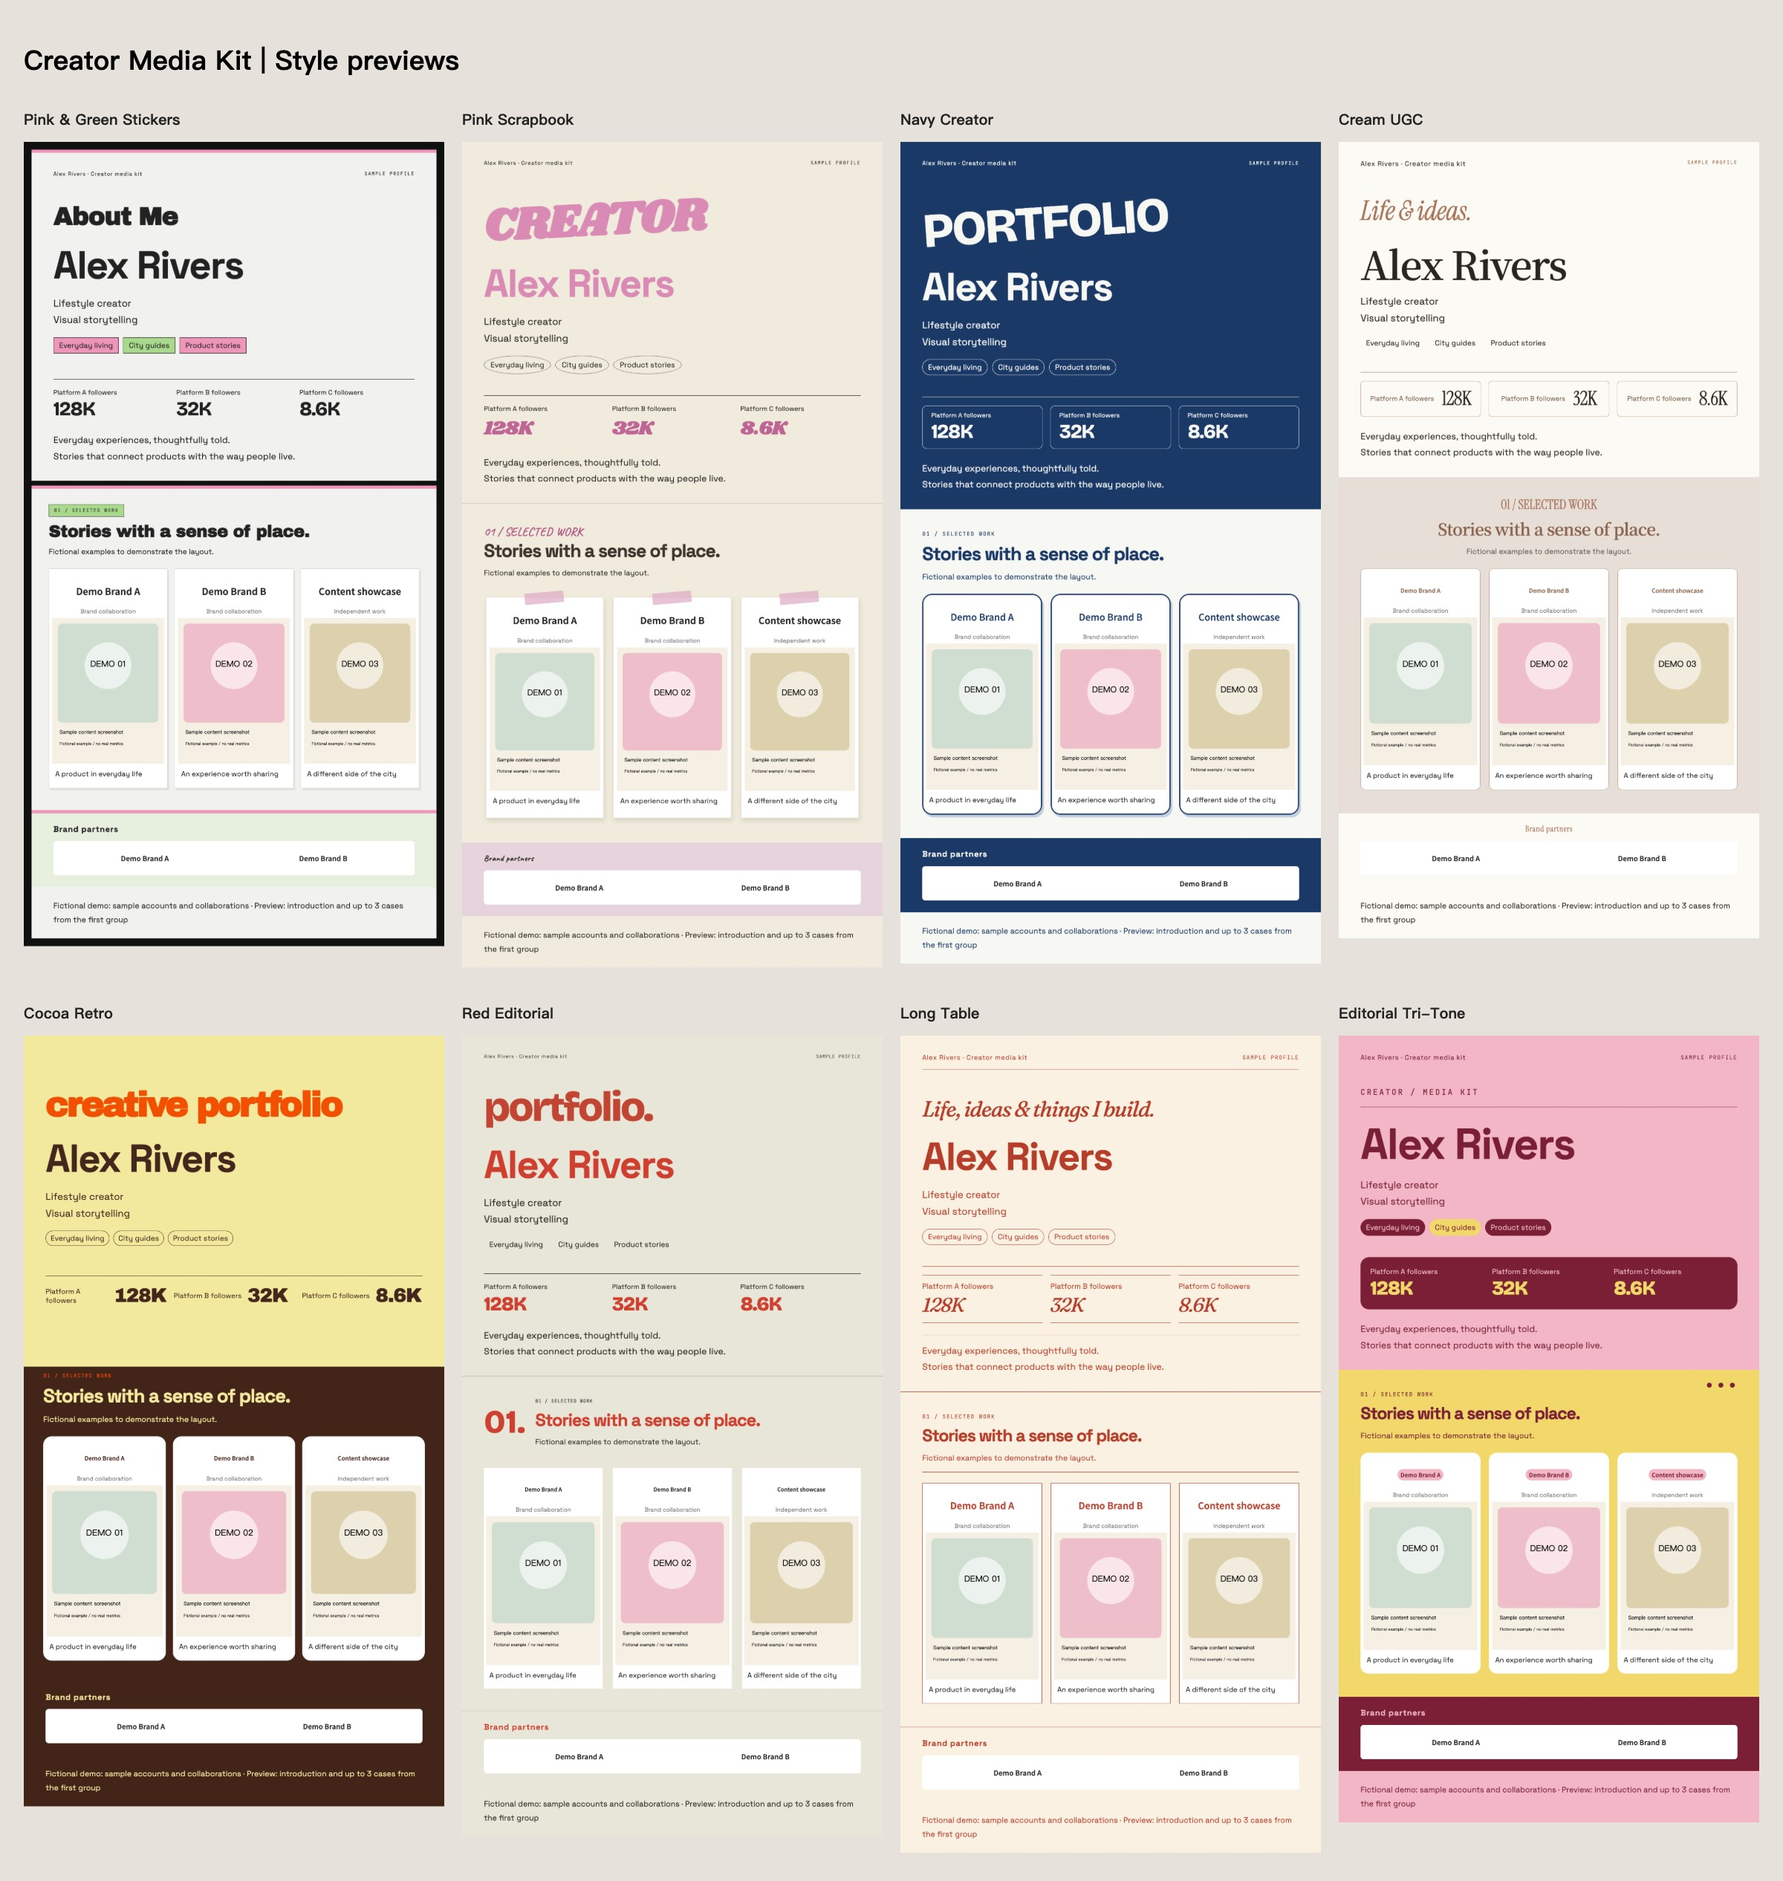
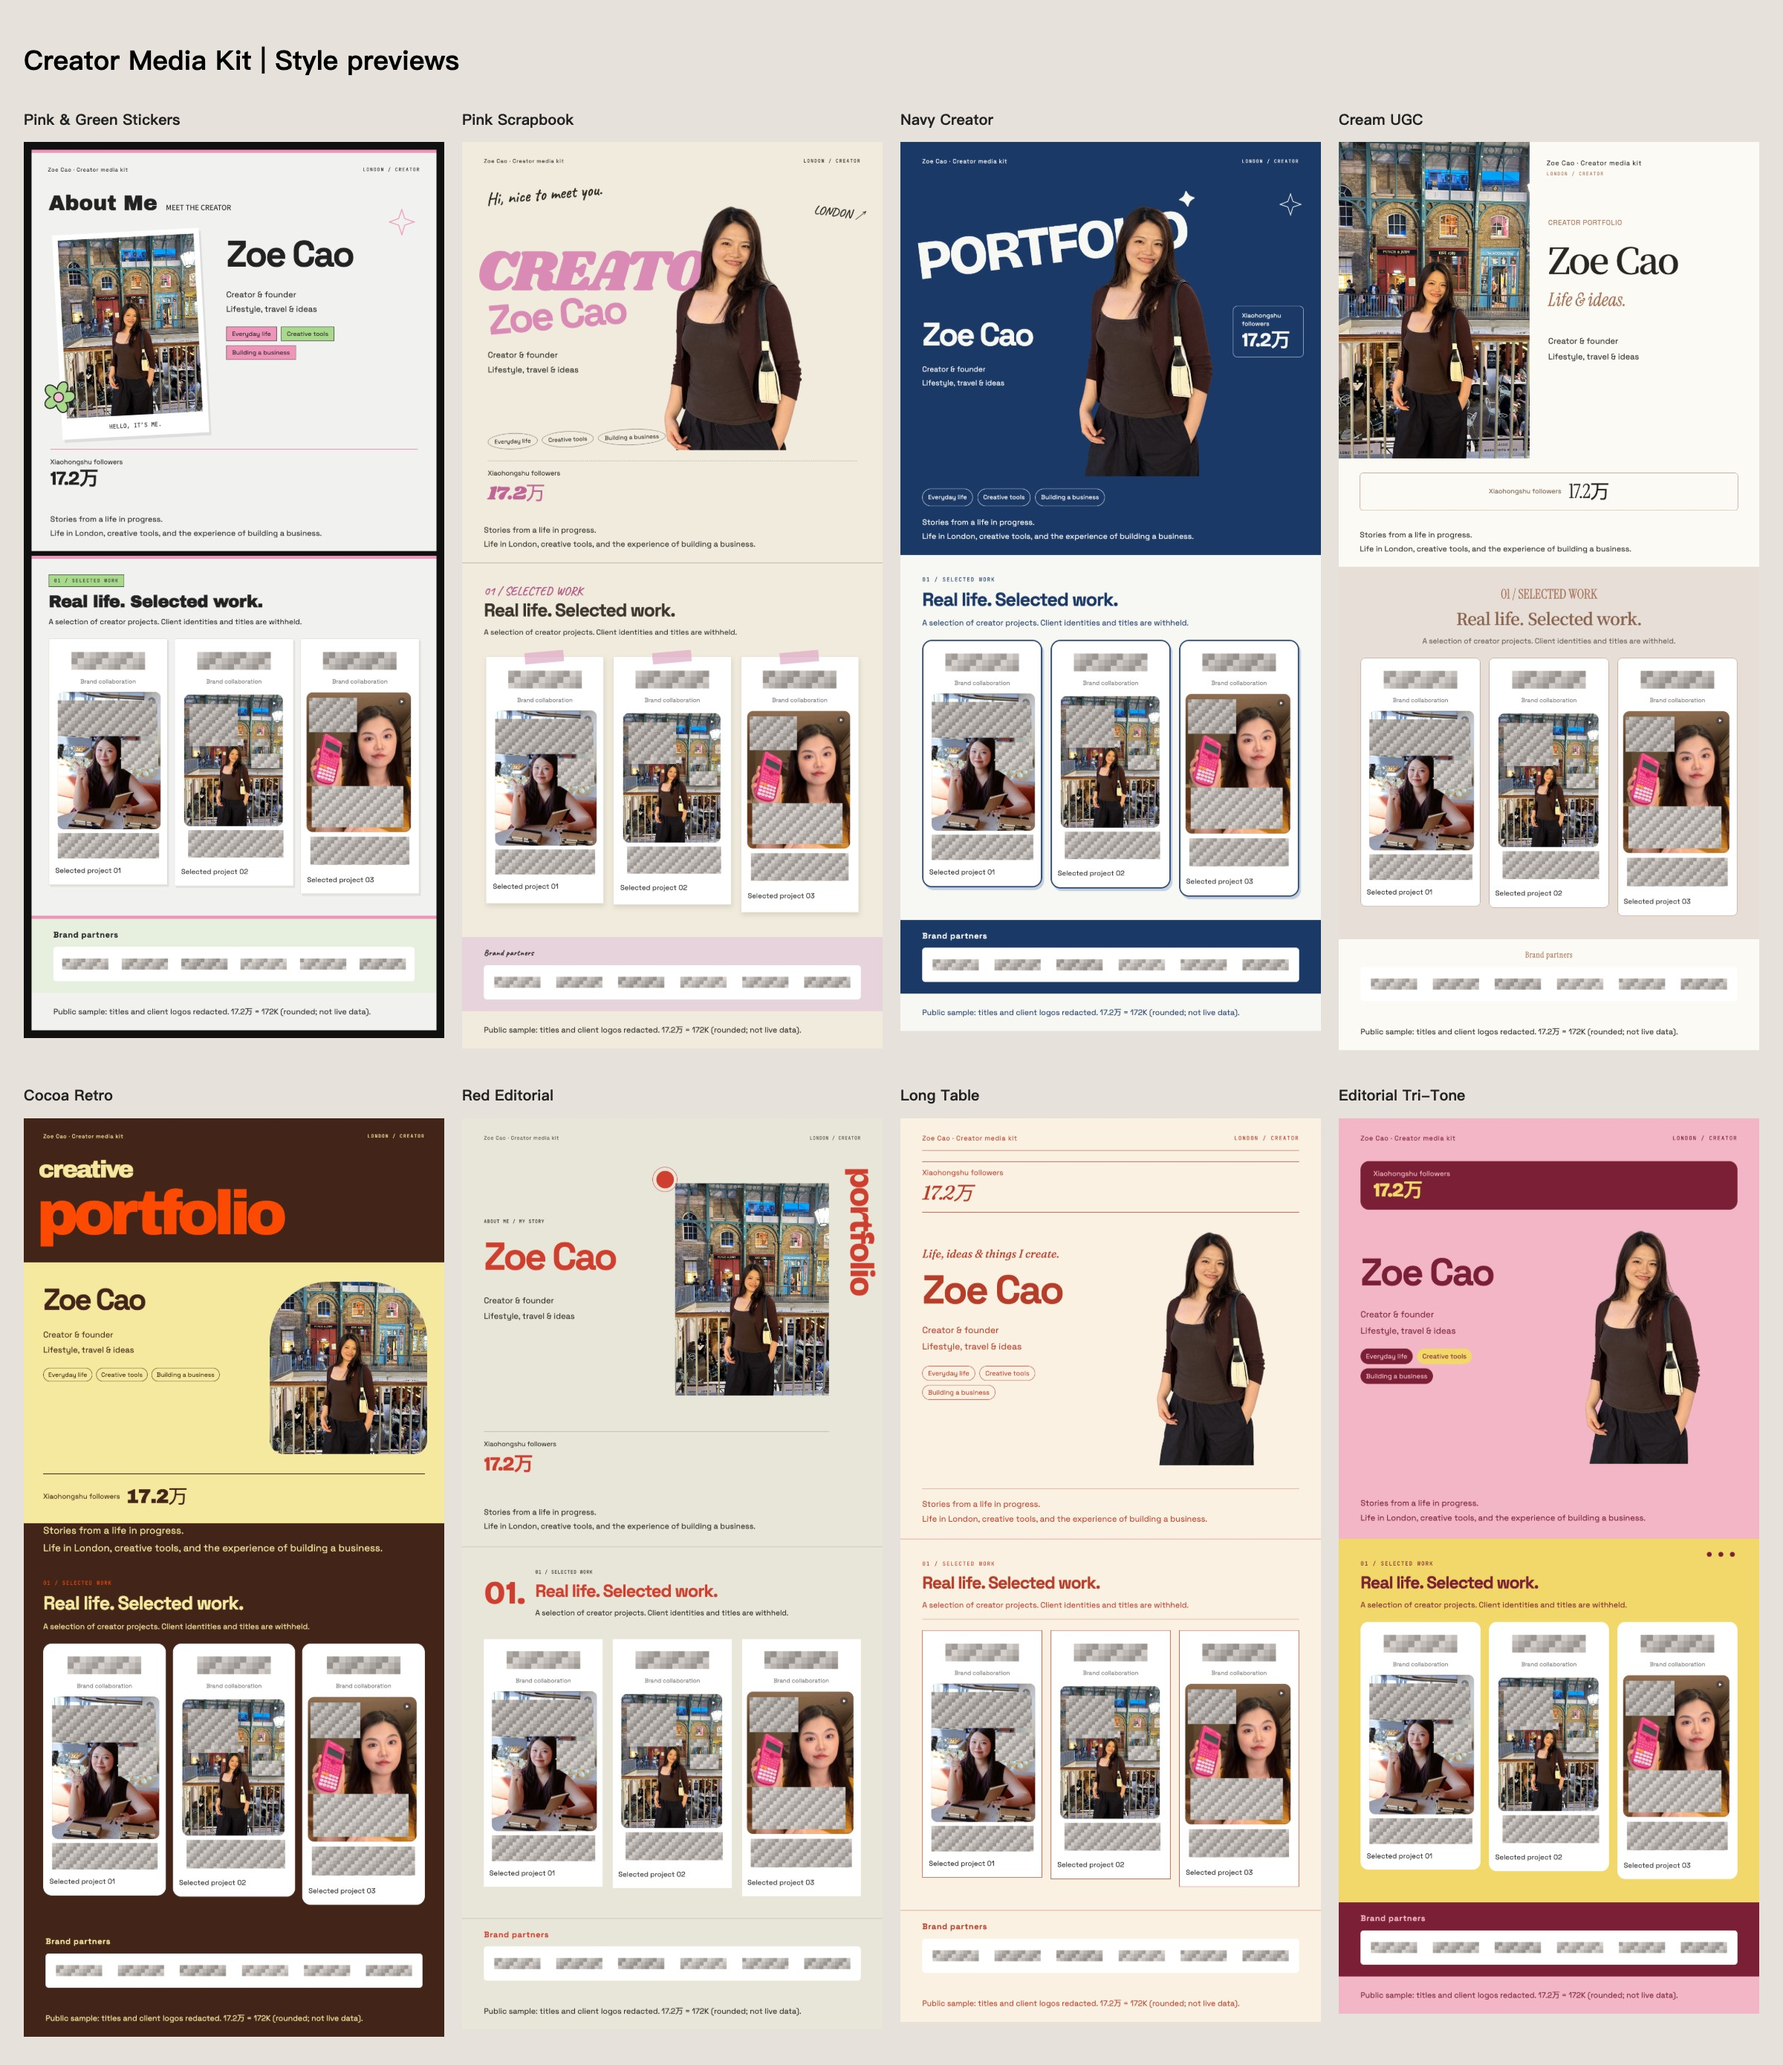
Show Zoe Cao in eight styles with titles and client identities redacted

diff --git a/scripts/build.py b/scripts/build.py
@@ -63,10 +63,13 @@ def build(inp,out,styles='all',mode='full'):
         result=[]
         for cid in ids:
             c=cm[cid]; b=bm.get(c.get('brand_id')); title=c.get('title','')
-            top=logo(b) if b and b.get('confirmed') is True and c['kind']=='sponsored' else '<span class="brand-name">Content showcase</span>'
+            has_brand=b and b.get('confirmed') is True and c['kind']=='sponsored'
+            kind_label={'sponsored':'Brand collaboration','editorial':'Independent work','unknown':'Content showcase'}[c['kind']]
+            top=logo(b) if has_brand else '<span class="brand-name">'+kind_label+'</span>'
+            kind_line='<div class="case-kind">'+kind_label+'</div>' if has_brand else ''
             shot='<img class="original" src="'+c['_src']+'" alt="'+esc(title)+'">' if c['_src'] else '<div class="missing-image">Case image not supplied</div>'
             metrics=''.join('<span>'+esc(m['label'])+' '+esc(m['value'])+'</span>' for m in c.get('metrics',[]) if m.get('show') is True and m.get('value') is not None)
-            result.append('<article class="card" data-case="'+esc(cid)+'"><div class="card-head"><div class="logo-stage">'+top+'</div><div class="case-kind">'+{'sponsored':'Brand collaboration','editorial':'Independent work','unknown':'Content showcase'}[c['kind']]+'</div></div>'+shot+'<div class="caption">'+esc(title)+'</div><div class="metrics">'+metrics+'</div></article>')
+            result.append('<article class="card" data-case="'+esc(cid)+'"><div class="card-head"><div class="logo-stage">'+top+'</div>'+kind_line+'</div>'+shot+'<div class="caption">'+esc(title)+'</div><div class="metrics">'+metrics+'</div></article>')
         return ''.join(result)
     accounts=[a for a in profile.get('accounts',[]) if a.get('platform') and a.get('followers') is not None and str(a['followers']).strip()]
     def stats(seq,cls='stats'):

diff --git a/README.md b/README.md
@@ -8,9 +8,9 @@ An AI skill for creators who need a clear, visual introduction to their work. St
 
 Eight visual styles. Three recommended previews by default. No paid data API required for the recording or screenshot workflow.
 
-![Eight media kit styles using a fictional creator and fictional examples](assets/examples/eight-styles-preview.jpg)
+![Zoe Cao — a real creator media kit with video titles and client logos redacted](assets/examples/zoe-cao/preview.jpg)
 
-*All names, account statistics, and collaborations in this preview are fictional. The examples demonstrate layout, not actual campaign results.*
+*This is my own media kit, presented as Zoe Cao. The portrait and work samples are real. Video titles, identifying screenshot text, and client logos are masked for public display. The follower figure is a recorded, rounded platform count, not a live metric or a campaign result. [Compare all eight styles](assets/examples/eight-styles-preview.jpg).*
 
 ## Why I built this
 
@@ -20,7 +20,7 @@ A personal website can hold all of that. But in the middle of a conversation, se
 
 I wanted something that fits the way those conversations already happen. One image that opens directly in a chat or sits alongside an email. A concise overview that someone can scan, save, and forward to a colleague. Enough context to understand my work and decide whether to continue the conversation.
 
-That is the idea behind Creator Media Kit.
+That is the idea behind Creator Media Kit. The example above uses my own photographs and selected work, so you can see the kind of introduction I wanted to be able to send. The public version keeps the person and the visual composition while withholding specific video titles and client identities.
 
 The starting material already exists. It is on a creator's profile, in their published posts, and in the screenshots they keep collecting. The difficult part is choosing what matters, explaining it clearly, and putting it into a consistent visual format. I built this skill to help with that transition: from a collection of posts to an introduction someone can use to evaluate a potential collaboration.
 
@@ -111,7 +111,7 @@ Invoke the skill by name and attach your material, using one of the prompts abov
 
 ## Try the included demo
 
-You can test the layout engine without connecting a social account or providing personal data. The bundled brief and example screenshots are fictional.
+You can test the layout engine without connecting a social account or providing personal data. The default `assets/examples/brief.json` uses a clearly labelled fictional “Sample Creator” fixture. The real Zoe Cao showcase lives separately in `assets/examples/zoe-cao/`, with its own asset-use notice.
 
 Requirements:
 
@@ -147,7 +147,11 @@ These shell examples use macOS/Linux syntax. On other systems, set the equivalen
 
 Open the output's `index.html` to compare the images and open individual layouts. To build all eight complete versions, use `--styles all --mode full` and a new output directory. The CLI defaults to `all` and `full`; the assistant explicitly chooses the three-style preview workflow.
 
+To reproduce the redacted showcase locally, use `assets/examples/zoe-cao/brief.json` as the input with a new output directory. Its images are already flattened with opaque mosaic masks; no unredacted client logos or post screenshots are included. The source brief uses neutral project and client identifiers. Keep the [showcase asset notice](assets/examples/zoe-cao/LICENSE.txt) with these files, and replace them with your own authorized material for your portfolio.
+
 ## Eight visual directions
+
+![Eight English media kit styles featuring Zoe Cao, with titles and client identities redacted](assets/examples/eight-styles-preview.jpg)
 
 | Style | Character | Style ID |
 | --- | --- | --- |
@@ -204,7 +208,7 @@ The builder and renderer are implemented and tested. Recording intake has been t
 
 Original photos and post screenshots generally give the strongest image quality. If a recording only contains tiny or blurred covers, the assistant may produce a useful introduction first and request a small number of clearer images for the final version. Very long media kits may also benefit from supplementary sections for mobile reading.
 
-Keep real briefs, recordings, screenshots, and outputs outside this repository. Only fictional demo materials belong in the public package.
+Keep private briefs, recordings, and unredacted client materials outside this repository. The public package includes a creator-authorized, redacted Zoe Cao showcase and separate fictional testing fixtures. Display permission for this example does not authorize publishing another user’s material.
 
 ## Repository guide
 
@@ -218,7 +222,7 @@ creator-media-kit/
   scripts/test_build.py    Behavioral tests
   references/              Intake, schema, design, and delivery guidance
   assets/templates/        Eight HTML/CSS styles
-  assets/examples/         Fictional demonstration materials
+  assets/examples/         Fictional fixtures and an authorized redacted showcase
   assets/fonts/            Bundled fonts
   assets/licenses/         Third-party license notices
   LICENSE                  MIT license for project code

diff --git a/references/publishing.md b/references/publishing.md
@@ -4,7 +4,9 @@ The repository root is the skill package: SKILL.md, README.md, agents, scripts, 
 
 Use English for public documentation, discovery metadata, fixed template copy, and demonstration assets. Keep the project's first-person story grounded in the author's stated experience: creator enquiries arriving through WeChat, email introductions, and a desire for a portfolio that opens directly in a conversation. Do not invent customers, fundraising progress, measured conversion improvements, or adoption figures.
 
-Only include fictional demo briefs, generic templates, scripts, and licensed fonts. Real user tests, recordings, extracted frames, account links, and contact details belong outside the public package. Publish a real customer example only when explicitly authorized for that purpose.
+Use fictional fixtures by default. Publish real creator examples only within the creator's explicit authorization. This repository includes an authorized Zoe Cao example with video titles and client identities redacted; the permission is specific to that example. Private user tests, original recordings, unredacted screenshots, and contact details belong outside the public package.
+
+When a creator requests redaction, cover titles inside the post image as well as the caption below it, and remove identifying client names from filenames, alt text, briefs, and metadata. Use permanent opaque masks in flattened assets. Do not publish an original image behind a removable CSS blur, an unredacted source brief, or the original logo files. Inspect each exported image. Redacting titles and logos does not make the recognizable person or scene anonymous. Keep an asset-use notice separate from the code's MIT license.
 
 Before release, run the behavioral tests and render the fictional demo. Review the actual images and verify that the README preview matches the current English templates. Inspect the file list for credentials, environment files, browser state, private briefs, machine-specific paths, and unapproved images. A gitignore does not remove previously tracked files.
 

diff --git a/references/credits.md b/references/credits.md
@@ -1,6 +1,6 @@
 # Credits and licensing
 
-The eight layouts are implemented with HTML and CSS around the selected visual directions. The public package includes fictional account and case data with photo-free examples. It does not include personal portraits, real account screenshots, private client materials, or a personal cartoon likeness.
+The eight layouts are implemented with HTML and CSS around the selected visual directions. The default testing fixtures use fictional account and case data. A separate Zoe Cao showcase uses creator-authorized photographs, a supplied portrait cutout, and permanently redacted work screenshots. Those visual materials are excluded from the MIT license; see [the showcase asset notice](../assets/examples/zoe-cao/LICENSE.txt). The original unredacted screenshots, client logos, and recordings are not distributed.
 
 Long Table and Editorial Tri-Tone reference design directions from [beautiful-html-templates](https://github.com/zarazhangrui/beautiful-html-templates). Its MIT notice is retained at `assets/licenses/beautiful-html-templates-MIT.txt`.
 

diff --git a/SKILL.md b/SKILL.md
@@ -24,7 +24,7 @@ Turn authentic creator materials into a visual introduction that a potential par
 - Only supplementary metrics with `show: true` are displayed. Never rewrite numbers inside original screenshots. Omit unreadable figures or list them privately for review.
 - Keep case cards equal in width and aligned at the top. Preserve logo proportions and use a compact strip below the cases, normally selecting six confirmed brands. Use the schema settings when the user requests the full list.
 - Keep names, roles, and statistics readable. Adjust composition rather than reducing essential copy to an unreadable size. Preserve the identity, clothing, and proportions in supplied photos.
-- Demo assets are fictional. Never pass them off as a user's identity, actual account statistics, or client work.
+- The default demo brief is fictional; the separately labelled Zoe Cao showcase is an authorized, redacted real example. Neither is a new user's identity, account data, or client work. Replace example materials with the user's own evidence.
 
 ## Resources
 

diff --git a/references/input-schema.md b/references/input-schema.md
@@ -76,4 +76,4 @@ Use `observed`, `user_confirmed`, or `suggested` as evidence statuses. These fie
 
 For recordings, store clear frames as ordinary image assets. An account or case may include `source: "recordings/profile.mov"` and `source_time_seconds: 2.4`. The renderer uses the extracted image, not the video. Only use a known recording/data date for `as_of`; record processing time separately when the data date is unknown.
 
-`demo: true` adds a visible fictional-data notice. The runnable examples in `assets/examples` use invented data and no portrait. Real briefs, original recordings, and extracted frames belong in a separate private project.
+`demo: true` adds a visible fictional-data notice. The default runnable fixtures in `assets/examples/brief.json` and `brief-no-photo.json` use invented data and no portrait. The separate `assets/examples/zoe-cao/` directory is an authorized, redacted real showcase and does not set `demo: true`. New user briefs, original recordings, and extracted frames belong in a separate private project.

diff --git a/references/rendering.md b/references/rendering.md
@@ -44,4 +44,4 @@ The renderer checks image loading, horizontal page overflow, and script errors. 
 
 Templates use a 1080-pixel canvas. Adapt exported HTML/CSS for unusually long content rather than squeezing important text into an unreadable fixed cover. Single-project adjustments do not require changing the skill's source templates.
 
-Run behavioral tests with `python3 <skill>/scripts/test_build.py`. Use the fictional brief in `assets/examples/brief.json` for public demonstrations.
+Run behavioral tests with `python3 <skill>/scripts/test_build.py`. Use the fictional brief in `assets/examples/brief.json` for generic tests, or the separately authorized redacted `assets/examples/zoe-cao/brief.json` to reproduce the published showcase.
